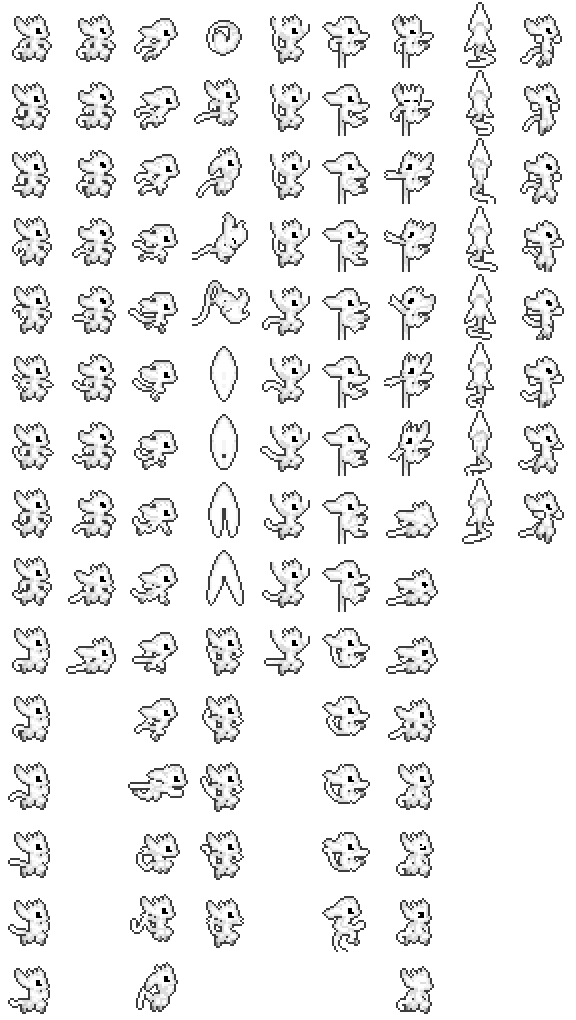
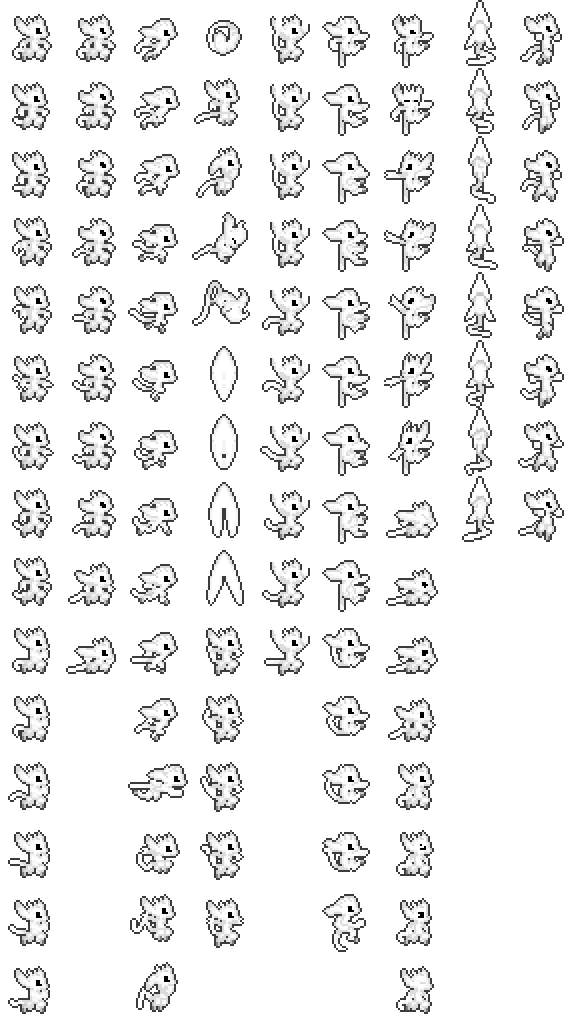
Fixed missing tail and hoovie tips, offset jumping and burrowing sprites 1 big pixel up, version bump

Changed region(s): [[0.9062, 0.0, 0.9688, 0.5471], [0.8125, 0.0, 0.875, 0.5471], [0.5625, 0.851, 0.625, 0.9422]]

diff --git a/CHANGELOG.md b/CHANGELOG.md
@@ -1,3 +1,9 @@
+# v3.2.2.0
+
+## Feature update
+
+- Fixed missing tail and hoovie tips
+
 # v3.2.1.1
 
 ## Bugfix
